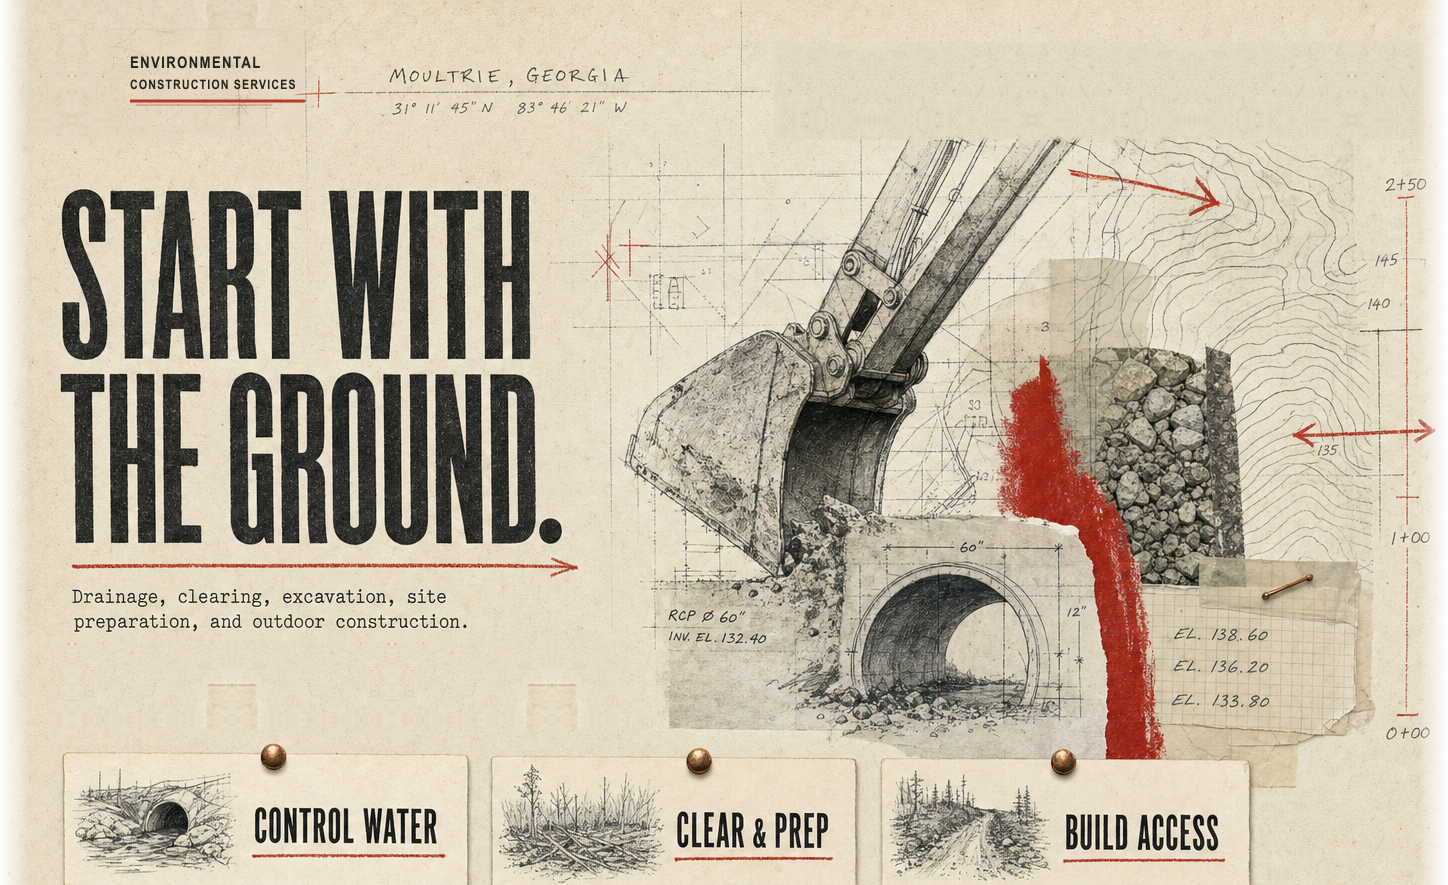
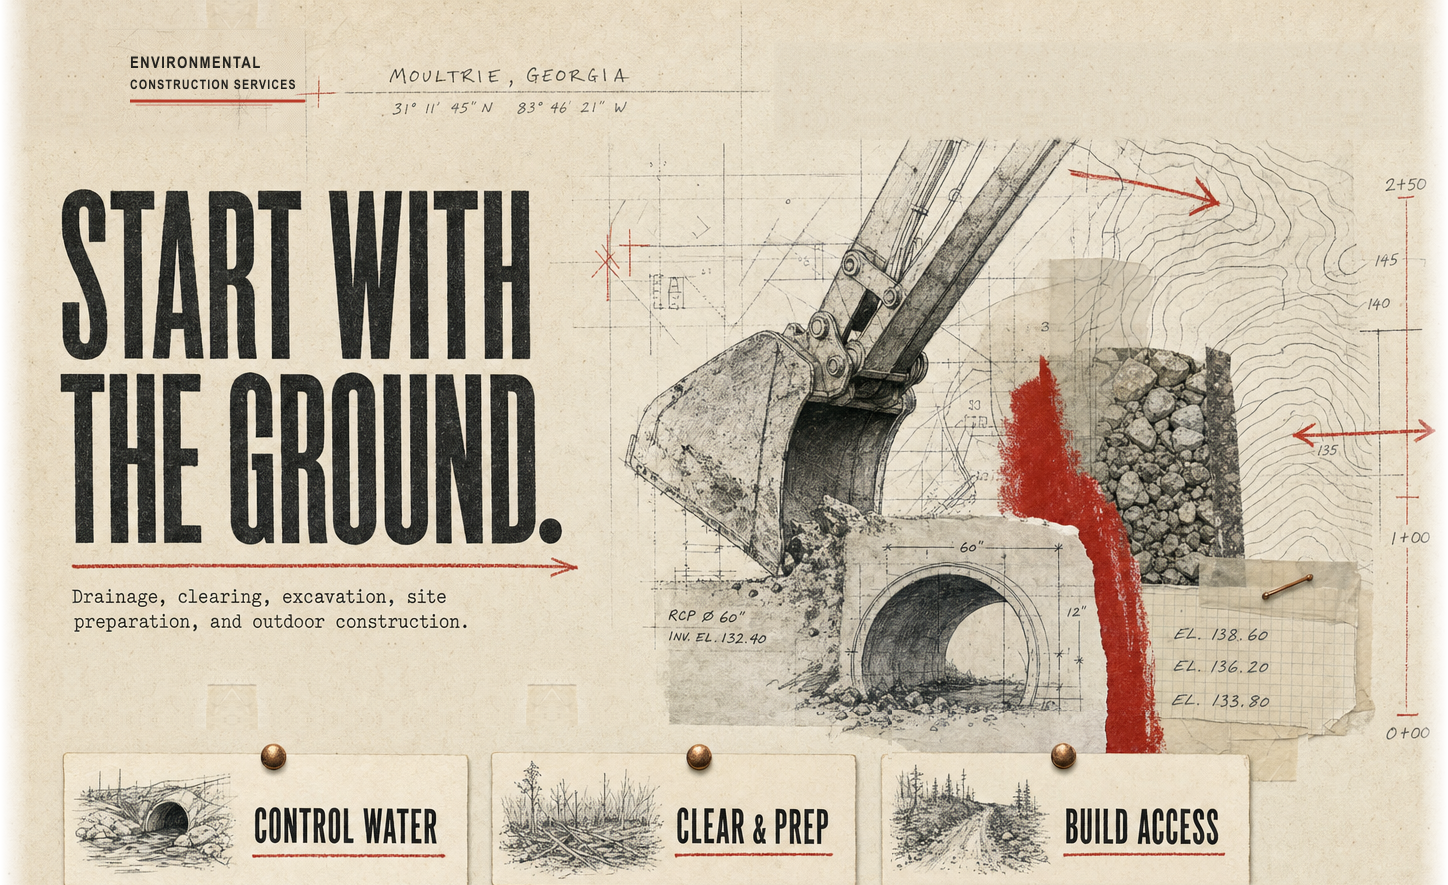
ECS mobile: painted concept treatment + desktop card-bottom alignment
Mobile (Braden round 5): killed the stray pencil-box border around the logo
(a desktop-round relic that only rendered on mobile); wordmark is now the
painted concept lettering (ink-unmixed, transparent) instead of Roboto;
the hero headline + hand-drawn arrow are the canvas's own painted pixels
(replacing the skinny scaleX webfont render and the stretched arrow); the
three pinned cards are painted canvas crops with pins and tape baked in,
stacked full-width. sr-only h1 keeps the page accessible.
Desktop: the concept painted the three pinned cards with staggered bottoms
(faces 853/856/858, under-sheets 885/889/891) — shifted card 2 up 4px and
card 3 up 6px in the canvas so both edge families sit level; hover hitboxes
re-registered; mobile card crops re-cut from the aligned canvas.
QA: 36/36 combos (overflow + image loads, 320-2560), fold delta 0.

Changed region(s): [[0.5594, 0.7932, 0.9012, 1.0], [0.3419, 0.8542, 0.5905, 1.0], [0.4662, 0.7932, 0.5283, 0.8847]]

diff --git a/sites/environmental-construction-services/index.html b/sites/environmental-construction-services/index.html
@@ -30,7 +30,7 @@ window.addEventListener('resize',f);f();})();
   <div class="head-in">
     <a class="brand" href="">
       <img src="assets/ecs-logo-plated.png" alt="">
-      <span class="nm">ENVIRONMENTAL<br><span class="l2">CONSTRUCTION SERVICES</span></span>
+      <img class="nm-ink" src="assets/wordmark-ink.png" alt="Environmental Construction Services">
     </a>
     <span class="locnote" aria-hidden="true"><span class="locline">Moultrie, Georgia</span><span class="coords">31° 11′ 45″ N  83° 46′ 21″ W</span></span>
     <button class="nav-toggle" aria-expanded="false" aria-label="Menu"><span></span><span></span><span></span></button>
@@ -56,8 +56,8 @@ window.addEventListener('resize',f);f();})();
       <a class="btn line" href="tel:+12295160821">CALL (229) 516-0821</a>
     </div>
     <a class="card-hit" style="left:62px;top:745px;width:404px;height:141px;background-position:-62px -745px" href="services/drainage/" aria-label="Explore drainage services"></a>
-    <a class="card-hit" style="left:475px;top:742px;width:415px;height:144px;background-position:-475px -742px" href="services/land-clearing-excavation/" aria-label="Explore land clearing, excavation, and site preparation services"></a>
-    <a class="card-hit" style="left:897px;top:755px;width:405px;height:131px;background-position:-897px -755px" href="services/site-prep-culverts/" aria-label="Explore culvert and driveway services"></a>
+    <a class="card-hit" style="left:475px;top:738px;width:415px;height:144px;background-position:-475px -738px" href="services/land-clearing-excavation/" aria-label="Explore land clearing, excavation, and site preparation services"></a>
+    <a class="card-hit" style="left:897px;top:749px;width:405px;height:131px;background-position:-897px -749px" href="services/site-prep-culverts/" aria-label="Explore culvert and driveway services"></a>
   </section>
  </div>
 </div>
@@ -69,8 +69,8 @@ window.addEventListener('resize',f);f();})();
 <div class="wrap">
 <section class="hero">
   <div class="hero-copy">
-    <h1 class="reveal-mask"><span class="ln">Start with</span><span class="ln">the ground.</span></h1>
-    <div class="underline draw" aria-hidden="true"></div>
+    <h1 class="sr-only">Start with the ground.</h1>
+    <img class="m-headline settle" src="assets/mobile-headline.png" alt="" aria-hidden="true">
     <p class="sub settle">Drainage, clearing, excavation, site preparation, and outdoor construction.</p>
     <div class="btn-row settle-2">
       <a class="btn fill" href="services/">Explore the Work</a>
@@ -83,16 +83,13 @@ window.addEventListener('resize',f);f();})();
 <div class="pinned">
 
   <a class="pin-card" href="services/drainage/" aria-label="Explore drainage services">
-    <span class="thumb"><img src="assets/thumb-control-water.png" alt="" aria-hidden="true"></span>
-    <span class="lbl">CONTROL WATER</span>
+    <img src="assets/mobile-card-1.png" alt="" aria-hidden="true">
   </a>
   <a class="pin-card" href="services/land-clearing-excavation/" aria-label="Explore land clearing, excavation, and site preparation services">
-    <span class="thumb"><img src="assets/thumb-clear-prep.png" alt="" aria-hidden="true"></span>
-    <span class="lbl">CLEAR &amp; PREP</span>
+    <img src="assets/mobile-card-2.png" alt="" aria-hidden="true">
   </a>
   <a class="pin-card" href="services/site-prep-culverts/" aria-label="Explore culvert and driveway services">
-    <span class="thumb"><img src="assets/thumb-build-access.png" alt="" aria-hidden="true"></span>
-    <span class="lbl">BUILD ACCESS</span>
+    <img src="assets/mobile-card-3.png" alt="" aria-hidden="true">
   </a>
 </div>
 </div>

diff --git a/sites/environmental-construction-services/assets/style.css b/sites/environmental-construction-services/assets/style.css
@@ -101,12 +101,8 @@ header.site::after {  /* faint vertical drafting-grid line between annotation an
   padding-bottom: 14px;
 }
 .brand { display: flex; align-items: center; gap: 16px; text-decoration: none; position: relative; }
-.brand::before {  /* pencil construction box around the logo block */
-  content: ""; position: absolute; inset: -13px -18px -9px -12px;
-  border: 1px solid rgb(23 25 28 / 13%); pointer-events: none;
-  transform: rotate(-0.15deg);
-}
 .brand img { height: 88px; width: auto; }  /* contain, never crop */
+.brand .nm-ink { height: 48px; width: auto; }  /* painted wordmark, not a font */
 .brand .nm {
   font-family: "Roboto Condensed", var(--ui); font-weight: 700; font-size: 18px; line-height: 1.3;
   letter-spacing: .01em;
@@ -501,7 +497,15 @@ footer.site a { text-underline-offset: 4px; }
   .hero-art.desktop { display: none; }
   .hero-art.mobile { display: block; max-width: 560px; margin: .5rem auto 0; }
   .hero-copy { max-width: none; padding-left: 0; }
-  .pinned { grid-template-columns: 1fr; gap: 1.6rem; padding-top: 1.4rem; }
+  .pinned { grid-template-columns: 1fr; gap: 1.1rem; padding-top: 1.2rem; max-width: none; }
+  /* mobile cards are painted concept crops — kill the DOM card chrome */
+  .pin-card, .pin-card:nth-child(1), .pin-card:nth-child(2), .pin-card:nth-child(3) {
+    background: none; border: 0; box-shadow: none; height: auto; padding: 0;
+    transform: none; display: block;
+  }
+  .pin-card::before { display: none; }
+  .pin-card img { width: 100%; height: auto; display: block; }
+  .m-headline { display: block; width: min(100%, 500px); margin: .4rem 0 .9rem; }
   .atlas, .svc-grid { grid-template-columns: 1fr; }
   .foot-in { grid-template-columns: 1fr; gap: 1.4rem; }
   nav.primary {
@@ -523,8 +527,7 @@ footer.site a { text-underline-offset: 4px; }
 }
 @media (max-width: 640px) {
   .atlas { grid-template-columns: repeat(2, 1fr); }
-  .brand .nm { font-size: 13px; }
-  .hero h1 { font-size: clamp(4.4rem, 20vw, 6.4rem); }
+  .brand .nm-ink { height: 40px; }
 }
 @media (max-width: 480px) {
   .atlas { grid-template-columns: 1fr; }

diff --git a/sites/environmental-construction-services/services/drainage/index.html b/sites/environmental-construction-services/services/drainage/index.html
@@ -30,7 +30,7 @@ window.addEventListener('resize',f);f();})();
   <div class="head-in">
     <a class="brand" href="../../">
       <img src="../../assets/ecs-logo-plated.png" alt="">
-      <span class="nm">ENVIRONMENTAL<br><span class="l2">CONSTRUCTION SERVICES</span></span>
+      <img class="nm-ink" src="../../assets/wordmark-ink.png" alt="Environmental Construction Services">
     </a>
     <span class="locnote" aria-hidden="true"><span class="locline">Moultrie, Georgia</span><span class="coords">31° 11′ 45″ N  83° 46′ 21″ W</span></span>
     <button class="nav-toggle" aria-expanded="false" aria-label="Menu"><span></span><span></span><span></span></button>

diff --git a/sites/environmental-construction-services/services/driveways/index.html b/sites/environmental-construction-services/services/driveways/index.html
@@ -30,7 +30,7 @@ window.addEventListener('resize',f);f();})();
   <div class="head-in">
     <a class="brand" href="../../">
       <img src="../../assets/ecs-logo-plated.png" alt="">
-      <span class="nm">ENVIRONMENTAL<br><span class="l2">CONSTRUCTION SERVICES</span></span>
+      <img class="nm-ink" src="../../assets/wordmark-ink.png" alt="Environmental Construction Services">
     </a>
     <span class="locnote" aria-hidden="true"><span class="locline">Moultrie, Georgia</span><span class="coords">31° 11′ 45″ N  83° 46′ 21″ W</span></span>
     <button class="nav-toggle" aria-expanded="false" aria-label="Menu"><span></span><span></span><span></span></button>

diff --git a/sites/environmental-construction-services/services/land-clearing-excavation/index.html b/sites/environmental-construction-services/services/land-clearing-excavation/index.html
@@ -30,7 +30,7 @@ window.addEventListener('resize',f);f();})();
   <div class="head-in">
     <a class="brand" href="../../">
       <img src="../../assets/ecs-logo-plated.png" alt="">
-      <span class="nm">ENVIRONMENTAL<br><span class="l2">CONSTRUCTION SERVICES</span></span>
+      <img class="nm-ink" src="../../assets/wordmark-ink.png" alt="Environmental Construction Services">
     </a>
     <span class="locnote" aria-hidden="true"><span class="locline">Moultrie, Georgia</span><span class="coords">31° 11′ 45″ N  83° 46′ 21″ W</span></span>
     <button class="nav-toggle" aria-expanded="false" aria-label="Menu"><span></span><span></span><span></span></button>

diff --git a/sites/environmental-construction-services/services/landscaping-hardscaping/index.html b/sites/environmental-construction-services/services/landscaping-hardscaping/index.html
@@ -30,7 +30,7 @@ window.addEventListener('resize',f);f();})();
   <div class="head-in">
     <a class="brand" href="../../">
       <img src="../../assets/ecs-logo-plated.png" alt="">
-      <span class="nm">ENVIRONMENTAL<br><span class="l2">CONSTRUCTION SERVICES</span></span>
+      <img class="nm-ink" src="../../assets/wordmark-ink.png" alt="Environmental Construction Services">
     </a>
     <span class="locnote" aria-hidden="true"><span class="locline">Moultrie, Georgia</span><span class="coords">31° 11′ 45″ N  83° 46′ 21″ W</span></span>
     <button class="nav-toggle" aria-expanded="false" aria-label="Menu"><span></span><span></span><span></span></button>

diff --git a/sites/environmental-construction-services/services/seawalls-retention-waterproofing/index.html b/sites/environmental-construction-services/services/seawalls-retention-waterproofing/index.html
@@ -30,7 +30,7 @@ window.addEventListener('resize',f);f();})();
   <div class="head-in">
     <a class="brand" href="../../">
       <img src="../../assets/ecs-logo-plated.png" alt="">
-      <span class="nm">ENVIRONMENTAL<br><span class="l2">CONSTRUCTION SERVICES</span></span>
+      <img class="nm-ink" src="../../assets/wordmark-ink.png" alt="Environmental Construction Services">
     </a>
     <span class="locnote" aria-hidden="true"><span class="locline">Moultrie, Georgia</span><span class="coords">31° 11′ 45″ N  83° 46′ 21″ W</span></span>
     <button class="nav-toggle" aria-expanded="false" aria-label="Menu"><span></span><span></span><span></span></button>

diff --git a/sites/environmental-construction-services/services/site-prep-culverts/index.html b/sites/environmental-construction-services/services/site-prep-culverts/index.html
@@ -30,7 +30,7 @@ window.addEventListener('resize',f);f();})();
   <div class="head-in">
     <a class="brand" href="../../">
       <img src="../../assets/ecs-logo-plated.png" alt="">
-      <span class="nm">ENVIRONMENTAL<br><span class="l2">CONSTRUCTION SERVICES</span></span>
+      <img class="nm-ink" src="../../assets/wordmark-ink.png" alt="Environmental Construction Services">
     </a>
     <span class="locnote" aria-hidden="true"><span class="locline">Moultrie, Georgia</span><span class="coords">31° 11′ 45″ N  83° 46′ 21″ W</span></span>
     <button class="nav-toggle" aria-expanded="false" aria-label="Menu"><span></span><span></span><span></span></button>

diff --git a/sites/environmental-construction-services/about/index.html b/sites/environmental-construction-services/about/index.html
@@ -30,7 +30,7 @@ window.addEventListener('resize',f);f();})();
   <div class="head-in">
     <a class="brand" href="../">
       <img src="../assets/ecs-logo-plated.png" alt="">
-      <span class="nm">ENVIRONMENTAL<br><span class="l2">CONSTRUCTION SERVICES</span></span>
+      <img class="nm-ink" src="../assets/wordmark-ink.png" alt="Environmental Construction Services">
     </a>
     <span class="locnote" aria-hidden="true"><span class="locline">Moultrie, Georgia</span><span class="coords">31° 11′ 45″ N  83° 46′ 21″ W</span></span>
     <button class="nav-toggle" aria-expanded="false" aria-label="Menu"><span></span><span></span><span></span></button>

diff --git a/sites/environmental-construction-services/accessibility/index.html b/sites/environmental-construction-services/accessibility/index.html
@@ -30,7 +30,7 @@ window.addEventListener('resize',f);f();})();
   <div class="head-in">
     <a class="brand" href="../">
       <img src="../assets/ecs-logo-plated.png" alt="">
-      <span class="nm">ENVIRONMENTAL<br><span class="l2">CONSTRUCTION SERVICES</span></span>
+      <img class="nm-ink" src="../assets/wordmark-ink.png" alt="Environmental Construction Services">
     </a>
     <span class="locnote" aria-hidden="true"><span class="locline">Moultrie, Georgia</span><span class="coords">31° 11′ 45″ N  83° 46′ 21″ W</span></span>
     <button class="nav-toggle" aria-expanded="false" aria-label="Menu"><span></span><span></span><span></span></button>

diff --git a/sites/environmental-construction-services/concept-data-use/index.html b/sites/environmental-construction-services/concept-data-use/index.html
@@ -30,7 +30,7 @@ window.addEventListener('resize',f);f();})();
   <div class="head-in">
     <a class="brand" href="../">
       <img src="../assets/ecs-logo-plated.png" alt="">
-      <span class="nm">ENVIRONMENTAL<br><span class="l2">CONSTRUCTION SERVICES</span></span>
+      <img class="nm-ink" src="../assets/wordmark-ink.png" alt="Environmental Construction Services">
     </a>
     <span class="locnote" aria-hidden="true"><span class="locline">Moultrie, Georgia</span><span class="coords">31° 11′ 45″ N  83° 46′ 21″ W</span></span>
     <button class="nav-toggle" aria-expanded="false" aria-label="Menu"><span></span><span></span><span></span></button>

diff --git a/sites/environmental-construction-services/contact/index.html b/sites/environmental-construction-services/contact/index.html
@@ -30,7 +30,7 @@ window.addEventListener('resize',f);f();})();
   <div class="head-in">
     <a class="brand" href="../">
       <img src="../assets/ecs-logo-plated.png" alt="">
-      <span class="nm">ENVIRONMENTAL<br><span class="l2">CONSTRUCTION SERVICES</span></span>
+      <img class="nm-ink" src="../assets/wordmark-ink.png" alt="Environmental Construction Services">
     </a>
     <span class="locnote" aria-hidden="true"><span class="locline">Moultrie, Georgia</span><span class="coords">31° 11′ 45″ N  83° 46′ 21″ W</span></span>
     <button class="nav-toggle" aria-expanded="false" aria-label="Menu"><span></span><span></span><span></span></button>
